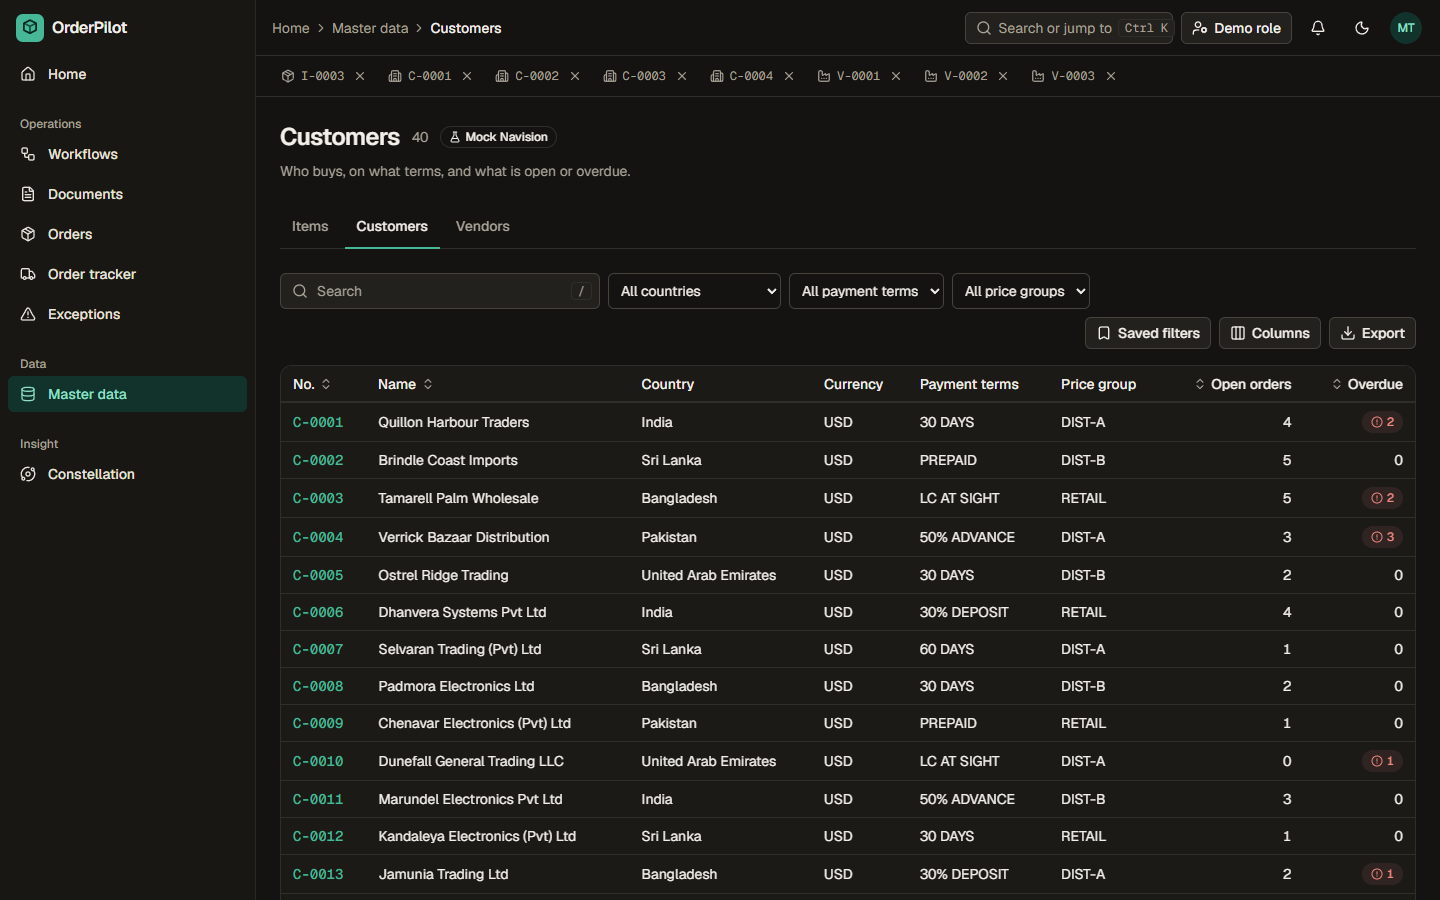
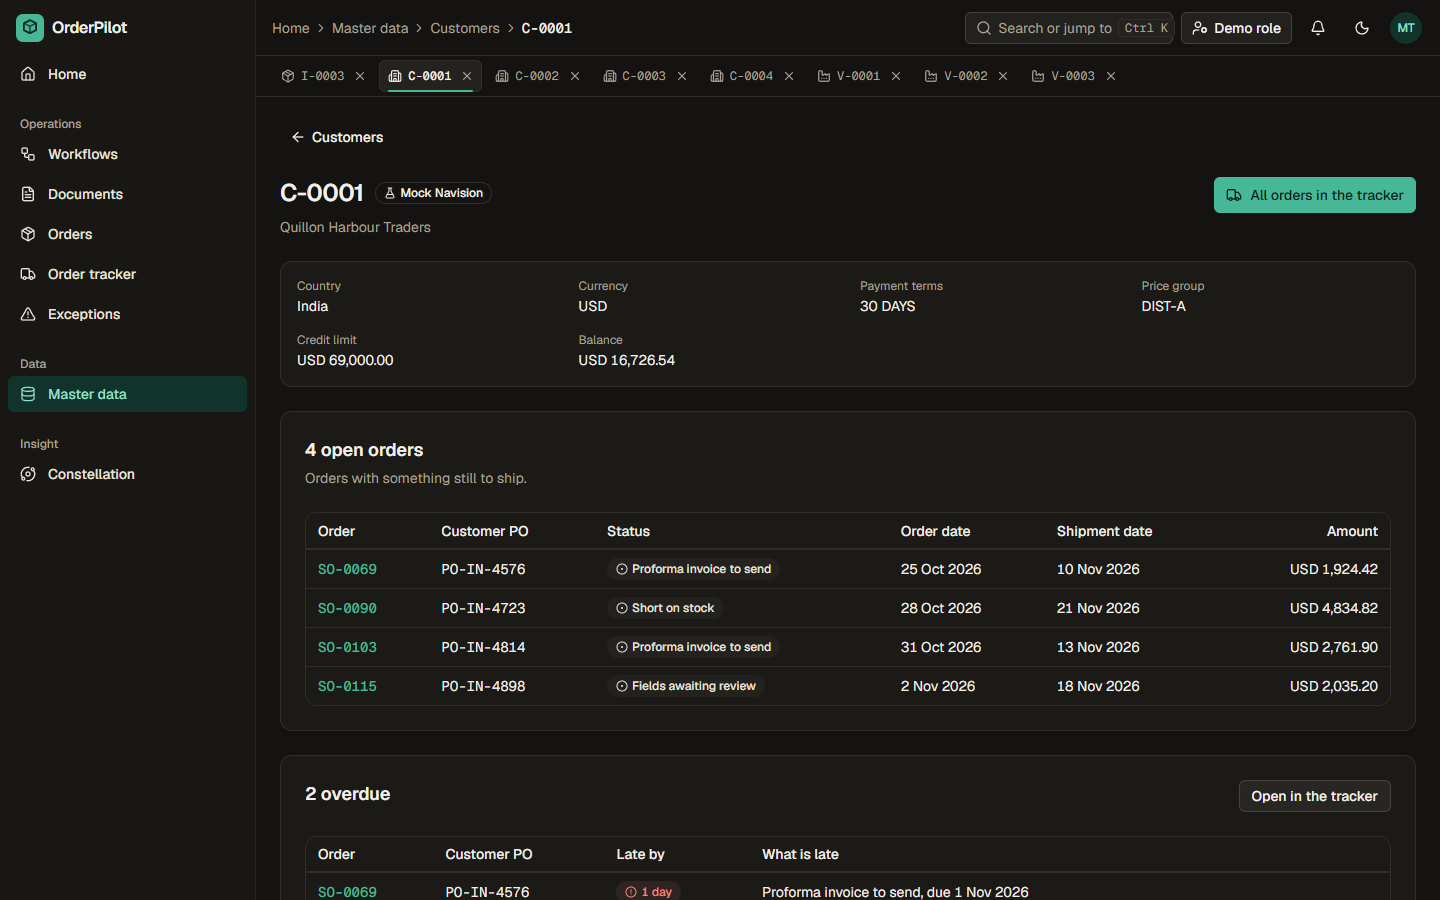
fix(web): keep the record number readable on narrow screens and name the steps tab

diff --git a/apps/web/src/app/shell/RecordTabs.test.tsx b/apps/web/src/app/shell/RecordTabs.test.tsx
@@ -509,6 +509,33 @@ describe("record tabs", () => {
     expect(strip()).toBeNull();
   });
 
+  it("tells an order from its steps page when they share a number", async () => {
+    mount();
+    act(() => {
+      const open = useRecordTabs.getState().open;
+      open(must(resolveRecord("/orders/SO-26-0001")), "/orders/SO-26-0001");
+      open(
+        {
+          key: "/orders/SO-26-0001/steps",
+          kind: "orderSteps",
+          no: "SO-26-0001",
+          listPath: "/orders",
+        },
+        "/orders/SO-26-0001/steps",
+      );
+    });
+    const nav = await screen.findByRole("navigation", { name: "Open records" });
+    // Both read the same number, so the steps tab says what it is in plain sight.
+    expect(within(nav).getByText("SO-26-0001 steps")).toBeVisible();
+    expect(
+      within(nav).getByRole("link", { name: "SO-26-0001 steps" }),
+    ).toBeInTheDocument();
+    expect(within(nav).getAllByRole("link")).toHaveLength(2);
+    expect(
+      within(nav).getByRole("link", { name: /Order\s*SO-26-0001/ }),
+    ).toBeInTheDocument();
+  });
+
   it("works with a broken copy in storage", async () => {
     localStorage.setItem(storageKey(ROLE_A.user.id), "{not json");
     mount("/items/ITM-006");

diff --git a/apps/web/src/app/shell/RecordTab.tsx b/apps/web/src/app/shell/RecordTab.tsx
@@ -31,6 +31,7 @@ export function RecordTab({
 }: RecordTabProps) {
   const { t } = useTranslation("record-tabs");
   const Icon = RECORD_KIND_ICONS[tab.kind];
+  const steps = tab.kind === "orderSteps";
   const name = t("name", {
     kind: t(`kinds.${tab.kind}`),
     no: tab.no,
@@ -67,14 +68,17 @@ export function RecordTab({
         className="flex h-full items-center gap-1.5 rounded-md pr-1 pl-2 outline-none focus-visible:ring-[3px] focus-visible:ring-ring/50"
       >
         <Icon className="size-3.5 shrink-0" aria-hidden="true" />
-        <span className="sr-only">{t(`kinds.${tab.kind}`)} </span>
+        {/* The steps page of an order shares its number with the order: its own word tells them apart. */}
+        {steps ? null : (
+          <span className="sr-only">{t(`kinds.${tab.kind}`)} </span>
+        )}
         <span
           className={cn(
             "font-mono whitespace-nowrap tabular-nums",
             active && "font-medium",
           )}
         >
-          {tab.no}
+          {steps ? t("stepsLabel", { no: tab.no }) : tab.no}
         </span>
         {tab.dirty ? (
           <>

diff --git a/apps/web/src/app/shell/RecordTabStrip.tsx b/apps/web/src/app/shell/RecordTabStrip.tsx
@@ -13,8 +13,8 @@ const MOVES: Record<string, (index: number, count: number) => number> = {
 };
 
 /**
- * The strip of open records under the top bar. It loads when the first record
- * opens, so a person who never opens one does not download it. One Tab stop:
+ * The strip of open records under the top bar. It loads after the first paint,
+ * in a chunk of its own that the entry bundle does not carry. One Tab stop:
  * the arrow keys move along it and Delete closes the focused tab.
  */
 export default function RecordTabStrip({
@@ -41,9 +41,11 @@ export default function RecordTabStrip({
 
   useEffect(() => {
     if (!activeKey) return;
-    // "nearest" scrolls only when the tab is out of view, and never smoothly.
+    // "nearest" scrolls only when the tab is out of view, and never smoothly. The
+    // whole item is brought in, so its close button is never left past the edge.
     links.current
       .get(activeKey)
+      ?.closest("li")
       ?.scrollIntoView({ block: "nearest", inline: "nearest" });
   }, [activeKey, tabs.length]);
 

diff --git a/apps/web/src/app/shell/Breadcrumbs.tsx b/apps/web/src/app/shell/Breadcrumbs.tsx
@@ -19,6 +19,10 @@ interface Crumb {
   mono?: boolean;
 }
 
+/**
+ * Below the large breakpoint the trail shows only the page you are on, so a
+ * record number stays readable beside the search and role buttons.
+ */
 export function Breadcrumbs() {
   const { t } = useTranslation();
   const matches = useMatches();
@@ -40,11 +44,13 @@ export function Breadcrumbs() {
           return (
             <Fragment key={`${item.path}${item.mono ? "#no" : ""}`}>
               {index > 0 ? (
-                <li aria-hidden="true">
+                <li aria-hidden="true" className="hidden lg:block">
                   <ChevronRight className="size-3.5" />
                 </li>
               ) : null}
-              <li className="truncate">
+              <li
+                className={cn(last ? "shrink-0" : "hidden truncate lg:block")}
+              >
                 {last ? (
                   <span
                     aria-current="page"

diff --git a/apps/web/src/app/shell/Topbar.tsx b/apps/web/src/app/shell/Topbar.tsx
@@ -58,7 +58,7 @@ export function Topbar({ onOpenPalette }: { onOpenPalette: () => void }) {
       <Button
         variant="outline"
         size="sm"
-        className="hidden w-52 justify-start font-normal text-muted-foreground sm:inline-flex"
+        className="hidden w-52 justify-start font-normal text-muted-foreground xl:inline-flex"
         aria-keyshortcuts="Control+K Meta+K"
         onClick={onOpenPalette}
       >
@@ -74,7 +74,7 @@ export function Topbar({ onOpenPalette }: { onOpenPalette: () => void }) {
       <Button
         variant="ghost"
         size="icon"
-        className="sm:hidden"
+        className="xl:hidden"
         aria-label={t("shell.search")}
         onClick={onOpenPalette}
       >

diff --git a/apps/web/src/app/shell/RoleSwitcher.tsx b/apps/web/src/app/shell/RoleSwitcher.tsx
@@ -43,7 +43,8 @@ export function RoleSwitcher() {
       <DropdownMenuTrigger asChild>
         <Button variant="outline" size="sm">
           <UserCog aria-hidden="true" />
-          {t("demo.switcher")}
+          {/* Icon only on a phone, so the trail keeps room for the record number. */}
+          <span className="max-sm:sr-only">{t("demo.switcher")}</span>
         </Button>
       </DropdownMenuTrigger>
       <DropdownMenuContent align="end" className="w-64">

diff --git a/apps/web/src/app/shell/AppShell.tsx b/apps/web/src/app/shell/AppShell.tsx
@@ -17,7 +17,8 @@ const CommandPalette = lazy(async () => ({
 }));
 
 // The open-records strip and the code that keeps it in step with the page load after
-// the first paint, so people who never open a record pay nothing for it.
+// the first paint, as a chunk of their own. Everyone downloads it, but the entry bundle
+// does not carry it.
 const RecordTabs = lazy(async () => ({
   default: (await loadRecordTabs()).RecordTabs,
 }));

diff --git a/docs/adr/0032-record-tabs-are-per-viewer-and-local.md b/docs/adr/0032-record-tabs-are-per-viewer-and-local.md
@@ -16,7 +16,7 @@ Prompt 004 asks for records that open as tabs in a strip under the top bar, as t
 4. **A tab's address is the record page's address with its query,** so a tab opens exactly what was open. Two links to the same page are one tab.
 5. **At most ten tabs.** An eleventh closes the oldest tab with no unsaved changes, and says so. If all the others have unsaved changes it opens nothing, and says why. A form marks its tab with `useMarkRecordDirty(isDirty)`. Nothing is dirty until P-47 calls it.
 6. **`RecordLink` and the table's `rowHref` take the modified click.** React Router leaves Ctrl+click and Command+click to the browser, which would open a browser tab. These open a background tab in our strip, stay on the page and say so. Shift and Alt keep their browser meaning.
-7. **The tab logic loads on the first open, not with the page.** The entry bundle is held at 250 KB gzip, and the strip, its store, its words and the toast are not needed to read a list. `AppShell` loads them after the first paint, and a record click loads them if they are not there yet. The entry keeps only what every page reads: the `handle` types, the breadcrumb number, `RecordLink` and the row click. Route matching and the store live in `lib/resolveRecord.ts` and `stores/recordTabs.ts`. The entry measured 249.9 KB after this story, so the next story that adds to it will need to look for savings first.
+7. **The tab logic loads on the first open, not with the page.** The entry bundle is held at 250 KB gzip, and the strip, its store and its words are not needed to read a list. They are one separate chunk that the entry does not carry. `AppShell` requests it after the first paint, so everyone downloads it a moment later, and a record click loads it if it is not there yet. The toast stays in the entry, because other pages use it. The entry keeps only what every page reads: the `handle` types, the breadcrumb number, `RecordLink` and the row click. Route matching and the store live in `lib/resolveRecord.ts` and `stores/recordTabs.ts`. The entry measured 249.9 KB after this story, so the next story that adds to it will need to look for savings first.
 
 ## Consequences
 
